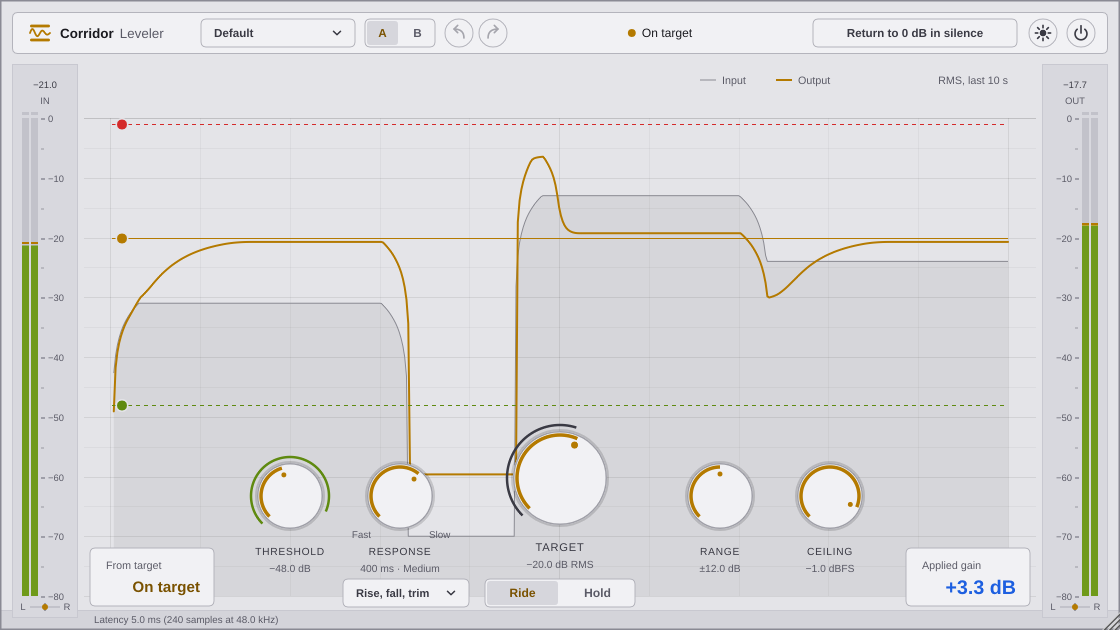
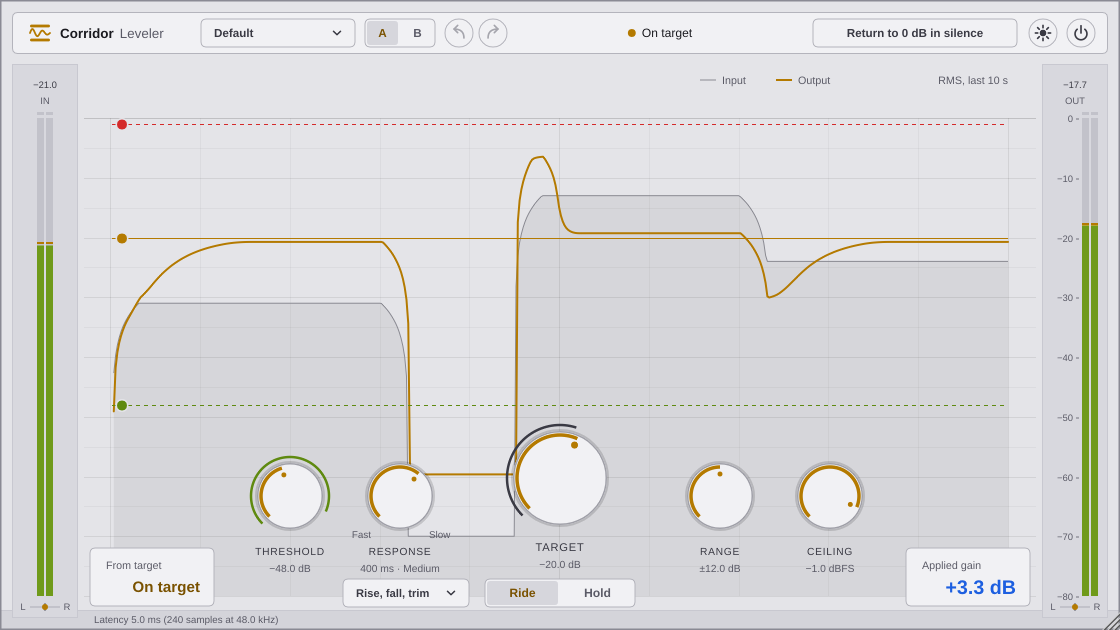
Show the dB scale once, and drop the repeated RMS from Target
Both meters printed the same -10 to -80 scale with ticks every 5 dB. Show one
scale beside the output meter, facing the graph, a number every 10 dB; the
graph's grid carries the lines across. The input meter keeps just its bars,
centred. The Target value drops "RMS" (the graph legend already says it);
Ceiling keeps dBFS, the one peak value.

Claude-Session: https://claude.ai/code/session_01CanfjaouHbrotfhirjsFAW

Changed region(s): [[0.0, 0.3619, 0.0625, 0.9651], [0.4688, 0.8746, 0.5312, 0.9048]]

diff --git a/plugin/src/PluginEditor.cpp b/plugin/src/PluginEditor.cpp
@@ -639,7 +639,7 @@ public:
         g.drawText(input ? "IN" : "OUT", Rectangle<float>(0.f, 30.f, w, 14.f), Justification::centred);
         // slim left and right bars on a dark track, square ends, in solid zones:
         // olive up to -18 dBFS, yellow to -6, red above; a gold tick for the peak hold, red caps when it clips
-        const float bw = 7.f, gap = 2.f, bx = input ? 10.f : w - 10.f - bw * 2.f - gap;
+        const float bw = 7.f, gap = 2.f, bx = input ? cx - bw - gap * 0.5f : w - 10.f - bw * 2.f - gap;
         const float y18 = ly(-18.f), y6 = ly(-6.f);
         const float pk[2] = {peakL, peakR};
         for (int ch = 0; ch < 2; ++ch) {
@@ -654,18 +654,17 @@ public:
             if (hold > -kDbRange) { g.setColour(c.data); g.fillRect(x, std::round(ly(jmin(0.f, hold))) - 1.f, bw, 2.f); }
             g.setColour(hold > -0.5f ? c.mHot : track); g.fillRect(x, top - 6.f, bw, 3.f);
         }
-        // the graph's marks: a tick every 5 dB, a number every 10, at the same heights
-        const float tickX = input ? bx + bw * 2.f + gap + 3.f : bx - 7.f;
-        g.setFont(sans(10.5f));
-        for (int v = 0; v >= -80; v -= 5) {
-            const float y = std::round(ly(float(v))) + 0.5f;
-            const bool major = v % 10 == 0;
-            g.setColour(c.muted.withMultipliedAlpha(major ? 0.9f : 0.5f));
-            g.fillRect(tickX, y, major ? 4.f : 3.f, 1.f);
-            if (!major) continue;
-            g.setColour(c.muted);
-            if (input) g.drawText(fmtDb(float(v), 0), Rectangle<float>(tickX + 7.f, y - 7.f, 30.f, 14.f), Justification::centredLeft);
-            else g.drawText(fmtDb(float(v), 0), Rectangle<float>(tickX - 33.f, y - 7.f, 30.f, 14.f), Justification::centredRight);
+        // one dB scale for the whole window: beside the output meter, facing the graph, a number every 10 dB
+        // (the graph's grid carries the lines across; the input meter needs no copy of it)
+        if (!input) {
+            const float tickX = bx - 6.f;
+            g.setFont(sans(10.5f));
+            for (int v = 0; v >= -80; v -= 10) {
+                const float y = std::round(ly(float(v))) + 0.5f;
+                g.setColour(c.muted.withMultipliedAlpha(0.8f)); g.fillRect(tickX, y, 3.f, 1.f);
+                g.setColour(c.muted);
+                g.drawText(fmtDb(float(v), 0), Rectangle<float>(tickX - 33.f, y - 7.f, 30.f, 14.f), Justification::centredRight);
+            }
         }
         // stereo balance: L and R at the ends of a short track, the dot leans to the louder side
         const float by = bot + 11.f, half = 15.f, lean = jlimit(-1.f, 1.f, balance / 4.f);
@@ -1097,7 +1096,7 @@ public:
         : proc(p), scene(p, gc), meterIn(true, gc, p.core()), meterOut(false, gc, p.core()), readouts(gc), tags(p, gc), header(gc),
           threshold(p, ids::threshold, "Threshold", [](double v) { return fmtDb(float(v)) + " dB"; }, 30.f, "thr"),
           response(p, ids::response, "Response", [](double v) { return String(roundToInt(v)) + " ms" + kDot + speedWord(v); }, 30.f, "resp", {"Fast", "Slow"}),
-          target(p, ids::target, "Target", [](double v) { return fmtDb(float(v)) + " dB RMS"; }, 44.f, "data"),
+          target(p, ids::target, "Target", [](double v) { return fmtDb(float(v)) + " dB"; }, 44.f, "data"),
           range(p, ids::range, "Range", [](double v) { return kPlusMinus + fmtDb(float(v)) + " dB"; }, 30.f, "range"),
           ceiling(p, ids::ceiling, "Ceiling", [](double v) { return fmtDb(float(v)) + " dBFS"; }, 30.f, "ceil"),
           rideHold(gc, {"Ride", "Hold"}), ab(gc, {"A", "B"}), more(p, gc), tip(gc), drawer(p, gc), about(*checker, gc), prompt(*checker, gc) {

diff --git a/README.md b/README.md
@@ -51,8 +51,8 @@ just inside the rim and a gold dot for a pointer; Threshold and Target add a thi
 input and output level. Anything switched on turns gold. It is dark charcoal by default, with a light version on the
 sun / moon switch, and a plain edge keeps the window distinct on black, dark or white backgrounds. It can be
 resized freely (it keeps its shape). The meters are slim left and right bars in a plain darker column, filled in
-solid olive, yellow and red zones with a gold peak-hold tick and red caps when they clip, marked at the graph's
-heights, with a balance dot underneath. The bottom corners show how far the output is from the target and the
+solid olive, yellow and red zones with a gold peak-hold tick and red caps when they clip, and a balance dot underneath.
+The dB scale is shown once, beside the output meter, at the graph's heights. The bottom corners show how far the output is from the target and the
 applied gain; the latency is in the status strip along the bottom (5 ms at every sample rate). A one-time tip explains the two settings that matter most.
 
 ![Hold mode with the analysis sheet open](docs/window-hold.png)
